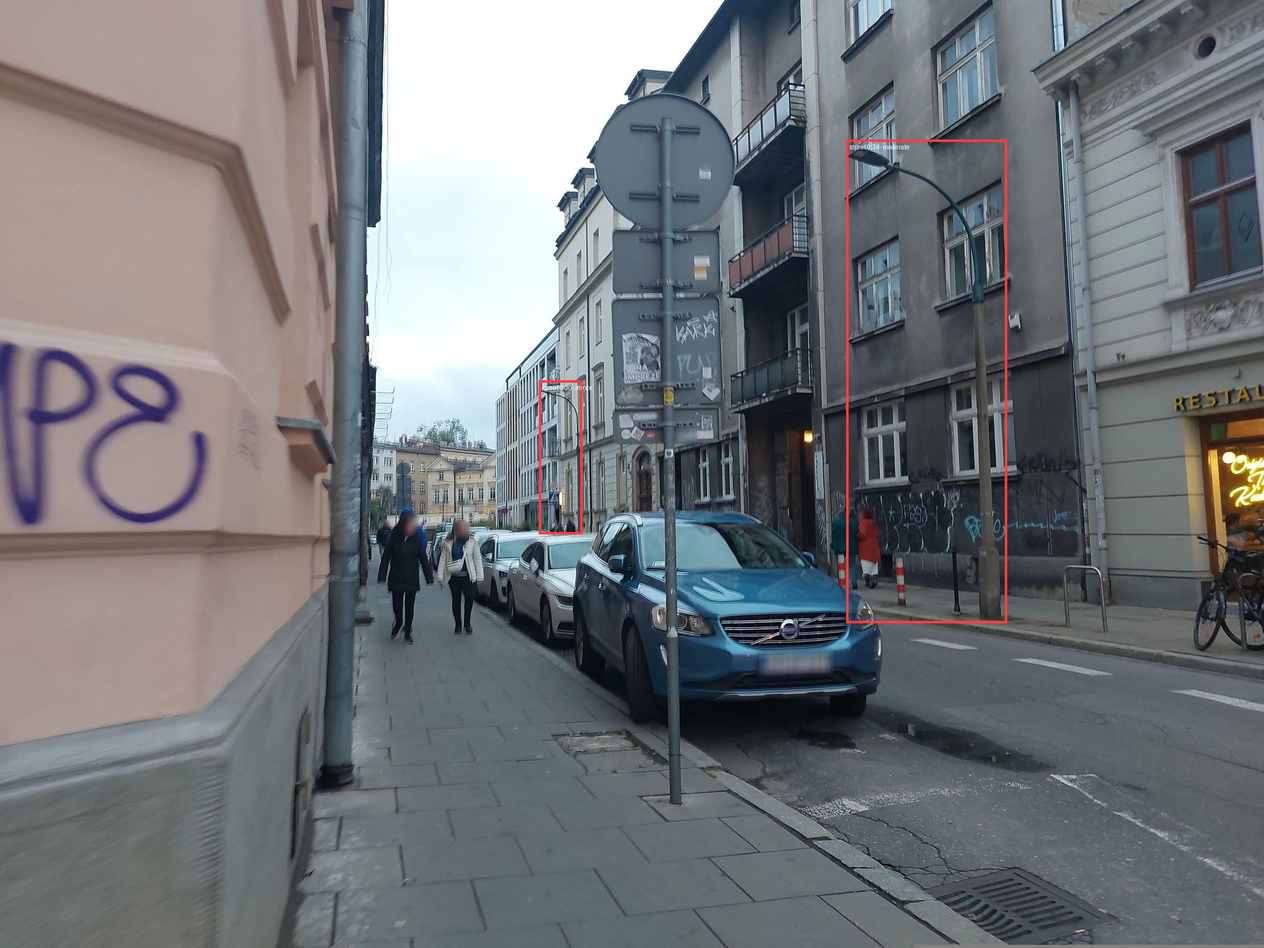
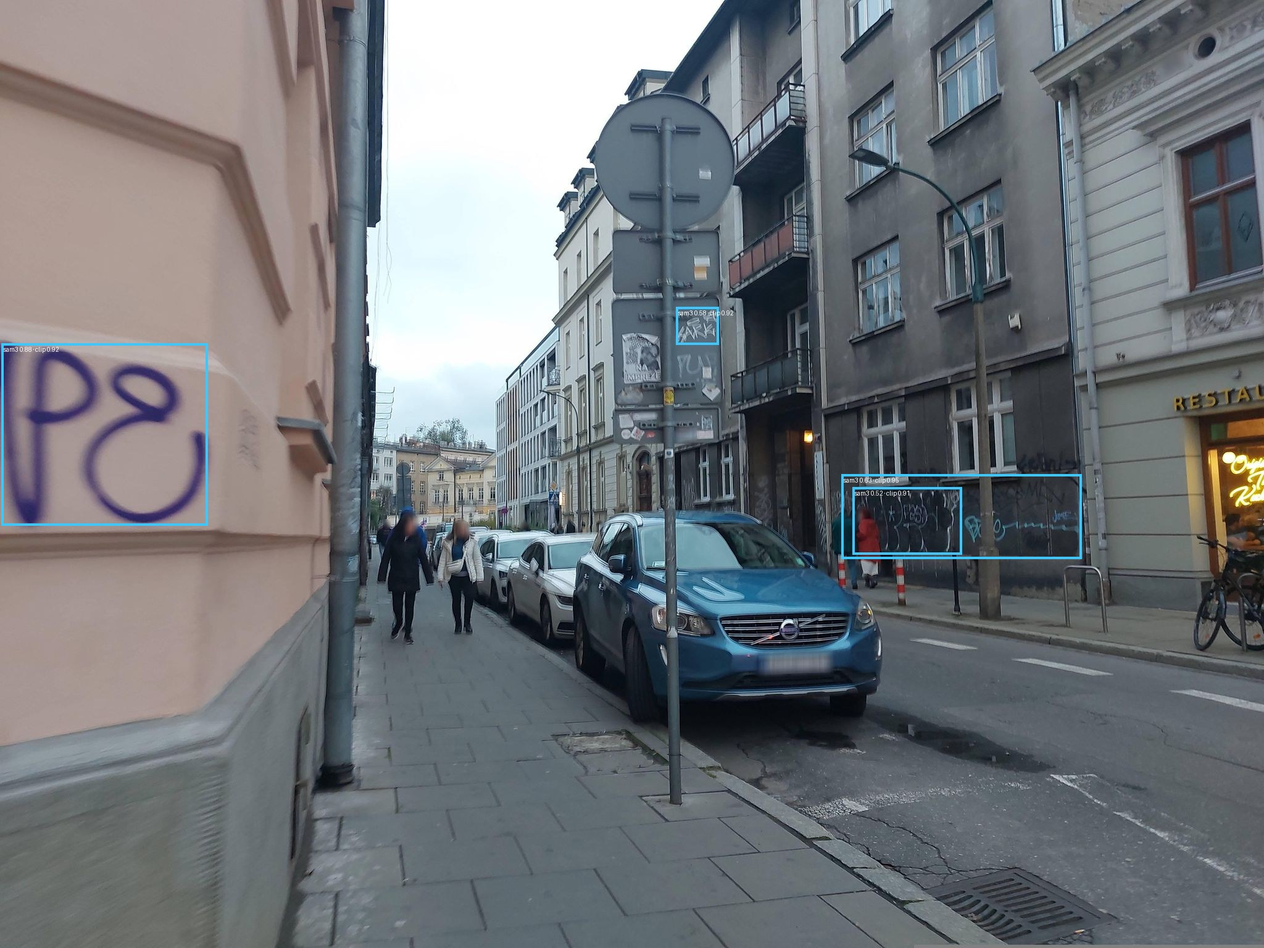
feat: SAM3 + CLIP hybrid as project default detector
vendor/mlx_sam3/sidecar.py runs in its own Python 3.13 + mlx uv env.
Main project (3.12) calls it via subprocess and parses JSON. One sidecar
invocation handles N images (single model load).

src/krakow_clean/vision_sam3.py: HybridDetection + detect_batch() +
detect_with_overlay():
  1. SAM3 sidecar → boxes/scores
  2. Geometric gates (min_area, max_area_frac)
  3. Crop each surviving box
  4. CLIP 10-label classifier (rejects road signs, lamps, windows,
     stickers, billboards, etc.)

scripts/redetect_sam3_clip.py wipes the queue and repopulates from
cached images using the hybrid pipeline. Result on 64 cached images:

  20 detections (DINO+CLIP)  →  54 detections (SAM3+CLIP)

Top sites in the new queue:
  3689 Bar Mleczny corner       12 dets
  1073 Karmelicka alt view       6 dets  (was the road-sign image —
                                          signs now reject, real
                                          graffiti on building behind
                                          + sign-backs survives)
  972/453/441 Kazimierz Dajwór   14 dets
  + 8 other corridor frames

scripts/visualize_queue.py updated to use vision_sam3.detect_with_overlay.

Latest Sheet:
https://docs.google.com/spreadsheets/d/1We6lNZOk_7uIYYmULFAyKGwVaWLZu0NdqBEjv82fwDU/edit

index.html #materials updated: new "detector evolution" table showing
the DINO→SAM3 progression, updated address counts (≥30 at Czysta 1, 15
at Kazimierz blocks, 9 other), latest Sheet link.
[…]

diff --git a/data/queue_gallery.html b/data/queue_gallery.html
@@ -1,5 +1,5 @@
 <!doctype html><meta charset='utf-8'>
-<title>krakow-clean — pending queue (20 detections)</title>
+<title>krakow-clean — pending queue (54 detections)</title>
 <style>
 body{font:14px/1.5 -apple-system,system-ui,sans-serif;margin:24px;background:#0d0d10;color:#eee;max-width:1200px;margin-inline:auto}
 h1{font-size:24px;margin:0 0 4px}
@@ -16,5 +16,5 @@ article h3{font-family:ui-monospace,SF Mono,Menlo,monospace;font-size:13px;margi
 .crop:hover{outline:2px solid #c9f76f}
 </style>
 <h1>krakow-clean — pending queue</h1>
-<p class="lede">20 detections from 5 source images, GroundingDINO at box_threshold=0.20. Hover/click a crop to inspect.</p>
-<article><header><h3>1237359060636431</h3><p class="meta">lat <b>50.06393</b> · lng <b>19.92761</b> · 2 detections · top score <b>0.24</b></p></header><div class="row"><a href="queue_viz/1237359060636431/overlay.jpg" class="overlay-link"><img class="overlay" src="queue_viz/1237359060636431/overlay.jpg"></a><div class="crops"><img src="../images/1237359060636431.jpg" hidden><a href="../images/1237359060636431.jpg"><img class="crop" src="queue_viz/1237359060636431/1237359060636431_01.jpg" alt="crop 0"></a><img src="../images/1237359060636431.jpg" hidden><a href="../images/1237359060636431.jpg"><img class="crop" src="queue_viz/1237359060636431/1237359060636431_02.jpg" alt="crop 1"></a></div></div></article><article><header><h3>3689129454680282</h3><p class="meta">lat <b>50.06390</b> · lng <b>19.92761</b> · 4 detections · top score <b>0.32</b></p></header><div class="row"><a href="queue_viz/3689129454680282/overlay.jpg" class="overlay-link"><img class="overlay" src="queue_viz/3689129454680282/overlay.jpg"></a><div class="crops"><img src="../images/3689129454680282.jpg" hidden><a href="../images/3689129454680282.jpg"><img class="crop" src="queue_viz/3689129454680282/3689129454680282_01.jpg" alt="crop 0"></a><img src="../images/3689129454680282.jpg" hidden><a href="../images/3689129454680282.jpg"><img class="crop" src="queue_viz/3689129454680282/3689129454680282_04.jpg" alt="crop 1"></a><img src="../images/3689129454680282.jpg" hidden><a href="../images/3689129454680282.jpg"><img class="crop" src="queue_viz/3689129454680282/3689129454680282_05.jpg" alt="crop 2"></a><img src="../images/3689129454680282.jpg" hidden><a href="../images/3689129454680282.jpg"><img class="crop" src="queue_viz/3689129454680282/3689129454680282_06.jpg" alt="crop 3"></a></div></div></article><article><header><h3>441112288652120</h3><p class="meta">lat <b>50.05112</b> · lng <b>19.94939</b> · 2 detections · top score <b>0.27</b></p></header><div class="row"><a href="queue_viz/441112288652120/overlay.jpg" class="overlay-link"><img class="overlay" src="queue_viz/441112288652120/overlay.jpg"></a><div class="crops"><img src="../images/441112288652120.jpg" hidden><a href="../images/441112288652120.jpg"><img class="crop" src="queue_viz/441112288652120/441112288652120_01.jpg" alt="crop 0"></a><img src="../images/441112288652120.jpg" hidden><a href="../images/441112288652120.jpg"><img class="crop" src="queue_viz/441112288652120/441112288652120_03.jpg" alt="crop 1"></a></div></div></article><article><header><h3>453477123994712</h3><p class="meta">lat <b>50.05101</b> · lng <b>19.94942</b> · 8 detections · top score <b>0.41</b></p></header><div class="row"><a href="queue_viz/453477123994712/overlay.jpg" class="overlay-link"><img class="overlay" src="queue_viz/453477123994712/overlay.jpg"></a><div class="crops"><img src="../images/453477123994712.jpg" hidden><a href="../images/453477123994712.jpg"><img class="crop" src="queue_viz/453477123994712/453477123994712_03.jpg" alt="crop 0"></a><img src="../images/453477123994712.jpg" hidden><a href="../images/453477123994712.jpg"><img class="crop" src="queue_viz/453477123994712/453477123994712_04.jpg" alt="crop 1"></a><img src="../images/453477123994712.jpg" hidden><a href="../images/453477123994712.jpg"><img class="crop" src="queue_viz/453477123994712/453477123994712_05.jpg" alt="crop 2"></a><img src="../images/453477123994712.jpg" hidden><a href="../images/453477123994712.jpg"><img class="crop" src="queue_viz/453477123994712/453477123994712_06.jpg" alt="crop 3"></a><img src="../images/453477123994712.jpg" hidden><a href="../images/453477123994712.jpg"><img class="crop" src="queue_viz/453477123994712/453477123994712_08.jpg" alt="crop 4"></a><img src="../images/453477123994712.jpg" hidden><a href="../images/453477123994712.jpg"><img class="crop" src="queue_viz/453477123994712/453477123994712_09.jpg" alt="crop 5"></a><img src="../images/453477123994712.jpg" hidden><a href="../images/453477123994712.jpg"><img class="crop" src="queue_viz/453477123994712/453477123994712_11.jpg" alt="crop 6"></a><img src="../images/453477123994712.jpg" hidden><a href="../images/453477123994712.jpg"><img class="crop" src="queue_viz/453477123994712/453477123994712_12.jpg" alt="crop 7"></a></div></div></article><article><header><h3>972146901074126</h3><p class="meta">lat <b>50.05107</b> · lng <b>19.94941</b> · 5 detections · top score <b>0.40</b></p></header><div class="row"><a href="queue_viz/972146901074126/overlay.jpg" class="overlay-link"><img class="overlay" src="queue_viz/972146901074126/overlay.jpg"></a><div class="crops"><img src="../images/972146901074126.jpg" hidden><a href="../images/972146901074126.jpg"><img class="crop" src="queue_viz/972146901074126/972146901074126_00.jpg" alt="crop 0"></a><img src="../images/972146901074126.jpg" hidden><a href="../images/972146901074126.jpg"><img class="crop" src="queue_viz/972146901074126/972146901074126_01.jpg" alt="crop 1"></a><img src="../images/972146901074126.jpg" hidden><a href="../images/972146901074126.jpg"><img class="crop" src="queue_viz/972146901074126/972146901074126_06.jpg" alt="crop 2"></a><img src="../images/972146901074126.jpg" hidden><a href="../images/972146901074126.jpg"><img class="crop" src="queue_viz/972146901074126/972146901074126_07.jpg" alt="crop 3"></a><img src="../images/972146901074126.jpg" hidden><a href="../images/972146901074126.jpg"><img class="crop" src="queue_viz/972146901074126/972146901074126_12.jpg" alt="crop 4"></a></div></div></article>
+<p class="lede">54 detections from 15 source images, GroundingDINO at box_threshold=0.20. Hover/click a crop to inspect.</p>
+<article><header><h3>1014099427133730</h3><p class="meta">lat <b>50.06398</b> · lng <b>19.92763</b> · 2 detections · top score <b>0.77</b></p></header><div class="row"><a href="queue_viz/1014099427133730/overlay.jpg" class="overlay-link"><img class="overlay" src="queue_viz/1014099427133730/overlay.jpg"></a><div class="crops"><img src="../images/1014099427133730.jpg" hidden><a href="../images/1014099427133730.jpg"><img class="crop" src="queue_viz/1014099427133730/1014099427133730_01.jpg" alt="crop 0"></a><img src="../images/1014099427133730.jpg" hidden><a href="../images/1014099427133730.jpg"><img class="crop" src="queue_viz/1014099427133730/1014099427133730_04.jpg" alt="crop 1"></a></div></div></article><article><header><h3>1073321477919159</h3><p class="meta">lat <b>50.06397</b> · lng <b>19.92763</b> · 6 detections · top score <b>0.80</b></p></header><div class="row"><a href="queue_viz/1073321477919159/overlay.jpg" class="overlay-link"><img class="overlay" src="queue_viz/1073321477919159/overlay.jpg"></a><div class="crops"><img src="../images/1073321477919159.jpg" hidden><a href="../images/1073321477919159.jpg"><img class="crop" src="queue_viz/1073321477919159/1073321477919159_01.jpg" alt="crop 0"></a><img src="../images/1073321477919159.jpg" hidden><a href="../images/1073321477919159.jpg"><img class="crop" src="queue_viz/1073321477919159/1073321477919159_03.jpg" alt="crop 1"></a><img src="../images/1073321477919159.jpg" hidden><a href="../images/1073321477919159.jpg"><img class="crop" src="queue_viz/1073321477919159/1073321477919159_07.jpg" alt="crop 2"></a><img src="../images/1073321477919159.jpg" hidden><a href="../images/1073321477919159.jpg"><img class="crop" src="queue_viz/1073321477919159/1073321477919159_11.jpg" alt="crop 3"></a><img src="../images/1073321477919159.jpg" hidden><a href="../images/1073321477919159.jpg"><img class="crop" src="queue_viz/1073321477919159/1073321477919159_12.jpg" alt="crop 4"></a><img src="../images/1073321477919159.jpg" hidden><a href="../images/1073321477919159.jpg"><img class="crop" src="queue_viz/1073321477919159/1073321477919159_13.jpg" alt="crop 5"></a></div></div></article><article><header><h3>1237359060636431</h3><p class="meta">lat <b>50.06393</b> · lng <b>19.92761</b> · 5 detections · top score <b>0.86</b></p></header><div class="row"><a href="queue_viz/1237359060636431/overlay.jpg" class="overlay-link"><img class="overlay" src="queue_viz/1237359060636431/overlay.jpg"></a><div class="crops"><img src="../images/1237359060636431.jpg" hidden><a href="../images/1237359060636431.jpg"><img class="crop" src="queue_viz/1237359060636431/1237359060636431_02.jpg" alt="crop 0"></a><img src="../images/1237359060636431.jpg" hidden><a href="../images/1237359060636431.jpg"><img class="crop" src="queue_viz/1237359060636431/1237359060636431_04.jpg" alt="crop 1"></a><img src="../images/1237359060636431.jpg" hidden><a href="../images/1237359060636431.jpg"><img class="crop" src="queue_viz/1237359060636431/1237359060636431_06.jpg" alt="crop 2"></a><img src="../images/1237359060636431.jpg" hidden><a href="../images/1237359060636431.jpg"><img class="crop" src="queue_viz/1237359060636431/1237359060636431_07.jpg" alt="crop 3"></a><img src="../images/1237359060636431.jpg" hidden><a href="../images/1237359060636431.jpg"><img class="crop" src="queue_viz/1237359060636431/1237359060636431_10.jpg" alt="crop 4"></a></div></div></article><article><header><h3>1364907601201514</h3><p class="meta">lat <b>50.06289</b> · lng <b>19.93350</b> · 2 detections · top score <b>0.83</b></p></header><div class="row"><a href="queue_viz/1364907601201514/overlay.jpg" class="overlay-link"><img class="overlay" src="queue_viz/1364907601201514/overlay.jpg"></a><div class="crops"><img src="../images/1364907601201514.jpg" hidden><a href="../images/1364907601201514.jpg"><img class="crop" src="queue_viz/1364907601201514/1364907601201514_00.jpg" alt="crop 0"></a><img src="../images/1364907601201514.jpg" hidden><a href="../images/1364907601201514.jpg"><img class="crop" src="queue_viz/1364907601201514/1364907601201514_03.jpg" alt="crop 1"></a></div></div></article><article><header><h3>1459221268103653</h3><p class="meta">lat <b>50.06400</b> · lng <b>19.92764</b> · 1 detections · top score <b>0.67</b></p></header><div class="row"><a href="queue_viz/1459221268103653/overlay.jpg" class="overlay-link"><img class="overlay" src="queue_viz/1459221268103653/overlay.jpg"></a><div class="crops"><img src="../images/1459221268103653.jpg" hidden><a href="../images/1459221268103653.jpg"><img class="crop" src="queue_viz/1459221268103653/1459221268103653_00.jpg" alt="crop 0"></a></div></div></article><article><header><h3>1640093563976838</h3><p class="meta">lat <b>50.06747</b> · lng <b>19.92555</b> · 1 detections · top score <b>0.75</b></p></header><div class="row"><a href="queue_viz/1640093563976838/overlay.jpg" class="overlay-link"><img class="overlay" src="queue_viz/1640093563976838/overlay.jpg"></a><div class="crops"><img src="../images/1640093563976838.jpg" hidden><a href="../images/1640093563976838.jpg"><img class="crop" src="queue_viz/1640093563976838/1640093563976838_00.jpg" alt="crop 0"></a></div></div></article><article><header><h3>3689129454680282</h3><p class="meta">lat <b>50.06390</b> · lng <b>19.92761</b> · 13 detections · top score <b>0.92</b></p></header><div class="row"><a href="queue_viz/3689129454680282/overlay.jpg" class="overlay-link"><img class="overlay" src="queue_viz/3689129454680282/overlay.jpg"></a><div class="crops"><img src="../images/3689129454680282.jpg" hidden><a href="../images/3689129454680282.jpg"><img class="crop" src="queue_viz/3689129454680282/3689129454680282_01.jpg" alt="crop 0"></a><img src="../images/3689129454680282.jpg" hidden><a href="../images/3689129454680282.jpg"><img class="crop" src="queue_viz/3689129454680282/3689129454680282_02.jpg" alt="crop 1"></a><img src="../images/3689129454680282.jpg" hidden><a href="../images/3689129454680282.jpg"><img class="crop" src="queue_viz/3689129454680282/3689129454680282_04.jpg" alt="crop 2"></a><img src="../images/3689129454680282.jpg" hidden><a href="../images/3689129454680282.jpg"><img class="crop" src="queue_viz/3689129454680282/3689129454680282_06.jpg" alt="crop 3"></a><img src="../images/3689129454680282.jpg" hidden><a href="../images/3689129454680282.jpg"><img class="crop" src="queue_viz/3689129454680282/3689129454680282_08.jpg" alt="crop 4"></a><img src="../images/3689129454680282.jpg" hidden><a href="../images/3689129454680282.jpg"><img class="crop" src="queue_viz/3689129454680282/3689129454680282_10.jpg" alt="crop 5"></a><img src="../images/3689129454680282.jpg" hidden><a href="../images/3689129454680282.jpg"><img class="crop" src="queue_viz/3689129454680282/3689129454680282_11.jpg" alt="crop 6"></a><img src="../images/3689129454680282.jpg" hidden><a href="../images/3689129454680282.jpg"><img class="crop" src="queue_viz/3689129454680282/3689129454680282_12.jpg" alt="crop 7"></a><img src="../images/3689129454680282.jpg" hidden><a href="../images/3689129454680282.jpg"><img class="crop" src="queue_viz/3689129454680282/3689129454680282_13.jpg" alt="crop 8"></a><img src="../images/3689129454680282.jpg" hidden><a href="../images/3689129454680282.jpg"><img class="crop" src="queue_viz/3689129454680282/3689129454680282_15.jpg" alt="crop 9"></a><img src="../images/3689129454680282.jpg" hidden><a href="../images/3689129454680282.jpg"><img class="crop" src="queue_viz/3689129454680282/3689129454680282_17.jpg" alt="crop 10"></a><img src="../images/3689129454680282.jpg" hidden><a href="../images/3689129454680282.jpg"><img class="crop" src="queue_viz/3689129454680282/3689129454680282_19.jpg" alt="crop 11"></a><img src="../images/3689129454680282.jpg" hidden><a href="../images/3689129454680282.jpg"><img class="crop" src="queue_viz/3689129454680282/3689129454680282_20.jpg" alt="crop 12"></a></div></div></article><article><header><h3>384669060670574</h3><p class="meta">lat <b>50.05090</b> · lng <b>19.94945</b> · 2 detections · top score <b>0.65</b></p></header><div class="row"><a href="queue_viz/384669060670574/overlay.jpg" class="overlay-link"><img class="overlay" src="queue_viz/384669060670574/overlay.jpg"></a><div class="crops"><img src="../images/384669060670574.jpg" hidden><a href="../images/384669060670574.jpg"><img class="crop" src="queue_viz/384669060670574/384669060670574_00.jpg" alt="crop 0"></a><img src="../images/384669060670574.jpg" hidden><a href="../images/384669060670574.jpg"><img class="crop" src="queue_viz/384669060670574/384669060670574_02.jpg" alt="crop 1"></a></div></div></article><article><header><h3>441112288652120</h3><p class="meta">lat <b>50.05112</b> · lng <b>19.94939</b> · 4 detections · top score <b>0.82</b></p></header><div class="row"><a href="queue_viz/441112288652120/overlay.jpg" class="overlay-link"><img class="overlay" src="queue_viz/441112288652120/overlay.jpg"></a><div class="crops"><img src="../images/441112288652120.jpg" hidden><a href="../images/441112288652120.jpg"><img class="crop" src="queue_viz/441112288652120/441112288652120_02.jpg" alt="crop 0"></a><img src="../images/441112288652120.jpg" hidden><a href="../images/441112288652120.jpg"><img class="crop" src="queue_viz/441112288652120/441112288652120_06.jpg" alt="crop 1"></a><img src="../images/441112288652120.jpg" hidden><a href="../images/441112288652120.jpg"><img class="crop" src="queue_viz/441112288652120/441112288652120_09.jpg" alt="crop 2"></a><img src="../images/441112288652120.jpg" hidden><a href="../images/441112288652120.jpg"><img class="crop" src="queue_viz/441112288652120/441112288652120_14.jpg" alt="crop 3"></a></div></div></article><article><header><h3>453477123994712</h3><p class="meta">lat <b>50.05101</b> · lng <b>19.94942</b> · 5 detections · top score <b>0.91</b></p></header><div class="row"><a href="queue_viz/453477123994712/overlay.jpg" class="overlay-link"><img class="overlay" src="queue_viz/453477123994712/overlay.jpg"></a><div class="crops"><img src="../images/453477123994712.jpg" hidden><a href="../images/453477123994712.jpg"><img class="crop" src="queue_viz/453477123994712/453477123994712_00.jpg" alt="crop 0"></a><img src="../images/453477123994712.jpg" hidden><a href="../images/453477123994712.jpg"><img class="crop" src="queue_viz/453477123994712/453477123994712_02.jpg" alt="crop 1"></a><img src="../images/453477123994712.jpg" hidden><a href="../images/453477123994712.jpg"><img class="crop" src="queue_viz/453477123994712/453477123994712_04.jpg" alt="crop 2"></a><img src="../images/453477123994712.jpg" hidden><a href="../images/453477123994712.jpg"><img class="crop" src="queue_viz/453477123994712/453477123994712_05.jpg" alt="crop 3"></a><img src="../images/453477123994712.jpg" hidden><a href="../images/453477123994712.jpg"><img class="crop" src="queue_viz/453477123994712/453477123994712_07.jpg" alt="crop 4"></a></div></div></article><article><header><h3>463288660073931</h3><p class="meta">lat <b>50.06395</b> · lng <b>19.92762</b> · 4 detections · top score <b>0.88</b></p></header><div class="row"><a href="queue_viz/463288660073931/overlay.jpg" class="overlay-link"><img class="overlay" src="queue_viz/463288660073931/overlay.jpg"></a><div class="crops"><img src="../images/463288660073931.jpg" hidden><a href="../images/463288660073931.jpg"><img class="crop" src="queue_viz/463288660073931/463288660073931_00.jpg" alt="crop 0"></a><img src="../images/463288660073931.jpg" hidden><a href="../images/463288660073931.jpg"><img class="crop" src="queue_viz/463288660073931/463288660073931_04.jpg" alt="crop 1"></a><img src="../images/463288660073931.jpg" hidden><a href="../images/463288660073931.jpg"><img class="crop" src="queue_viz/463288660073931/463288660073931_05.jpg" alt="crop 2"></a><img src="../images/463288660073931.jpg" hidden><a href="../images/463288660073931.jpg"><img class="crop" src="queue_viz/463288660073931/463288660073931_12.jpg" alt="crop 3"></a></div></div></article><article><header><h3>929218989255028</h3><p class="meta">lat <b>50.06403</b> · lng <b>19.92764</b> · 3 detections · top score <b>0.73</b></p></header><div class="row"><a href="queue_viz/929218989255028/overlay.jpg" class="overlay-link"><img class="overlay" src="queue_viz/929218989255028/overlay.jpg"></a><div class="crops"><img src="../images/929218989255028.jpg" hidden><a href="../images/929218989255028.jpg"><img class="crop" src="queue_viz/929218989255028/929218989255028_03.jpg" alt="crop 0"></a><img src="../images/929218989255028.jpg" hidden><a href="../images/929218989255028.jpg"><img class="crop" src="queue_viz/929218989255028/929218989255028_08.jpg" alt="crop 1"></a><img src="../images/929218989255028.jpg" hidden><a href="../images/929218989255028.jpg"><img class="crop" src="queue_viz/929218989255028/929218989255028_12.jpg" alt="crop 2"></a></div></div></article><article><header><h3>952607747623269</h3><p class="meta">lat <b>50.06720</b> · lng <b>19.92541</b> · 1 detections · top score <b>0.91</b></p></header><div class="row"><a href="queue_viz/952607747623269/overlay.jpg" class="overlay-link"><img class="overlay" src="queue_viz/952607747623269/overlay.jpg"></a><div class="crops"><img src="../images/952607747623269.jpg" hidden><a href="../images/952607747623269.jpg"><img class="crop" src="queue_viz/952607747623269/952607747623269_00.jpg" alt="crop 0"></a></div></div></article><article><header><h3>972146901074126</h3><p class="meta">lat <b>50.05107</b> · lng <b>19.94941</b> · 6 detections · top score <b>0.91</b></p></header><div class="row"><a href="queue_viz/972146901074126/overlay.jpg" class="overlay-link"><img class="overlay" src="queue_viz/972146901074126/overlay.jpg"></a><div class="crops"><img src="../images/972146901074126.jpg" hidden><a href="../images/972146901074126.jpg"><img class="crop" src="queue_viz/972146901074126/972146901074126_01.jpg" alt="crop 0"></a><img src="../images/972146901074126.jpg" hidden><a href="../images/972146901074126.jpg"><img class="crop" src="queue_viz/972146901074126/972146901074126_02.jpg" alt="crop 1"></a><img src="../images/972146901074126.jpg" hidden><a href="../images/972146901074126.jpg"><img class="crop" src="queue_viz/972146901074126/972146901074126_03.jpg" alt="crop 2"></a><img src="../images/972146901074126.jpg" hidden><a href="../images/972146901074126.jpg"><img class="crop" src="queue_viz/972146901074126/972146901074126_06.jpg" alt="crop 3"></a><img src="../images/972146901074126.jpg" hidden><a href="../images/972146901074126.jpg"><img class="crop" src="queue_viz/972146901074126/972146901074126_08.jpg" alt="crop 4"></a><img src="../images/972146901074126.jpg" hidden><a href="../images/972146901074126.jpg"><img class="crop" src="queue_viz/972146901074126/972146901074126_09.jpg" alt="crop 5"></a></div></div></article><article><header><h3>977749054598773</h3><p class="meta">lat <b>50.06753</b> · lng <b>19.92558</b> · 1 detections · top score <b>0.85</b></p></header><div class="row"><a href="queue_viz/977749054598773/overlay.jpg" class="overlay-link"><img class="overlay" src="queue_viz/977749054598773/overlay.jpg"></a><div class="crops"><img src="../images/977749054598773.jpg" hidden><a href="../images/977749054598773.jpg"><img class="crop" src="queue_viz/977749054598773/977749054598773_01.jpg" alt="crop 0"></a></div></div></article>

diff --git a/index.html b/index.html
@@ -333,10 +333,12 @@ footer{padding:40px 24px 80px;color:var(--mute);font-family:var(--mono);font-siz
 
     <table class="spec">
       <tr><th>address</th><th>district</th><th>rejon SM</th><th>detections</th></tr>
-      <tr><td>Dajwór 19, 31-052</td><td>Stare Miasto</td><td>I/19</td><td><b>9</b></td></tr>
-      <tr><td>Czysta 1, 31-121</td><td>Stare Miasto</td><td>I/07</td><td><b>5</b></td></tr>
-      <tr><td>Dajwór 14, 31-052</td><td>Stare Miasto</td><td>I/19</td><td><b>2</b></td></tr>
+      <tr><td>Czysta 1, 31-121 (Karmelicka corner)</td><td>Stare Miasto</td><td>I/07</td><td><b>≥ 30</b></td></tr>
+      <tr><td>Dajwór 19, 31-052 (Kazimierz)</td><td>Stare Miasto</td><td>I/19</td><td><b>11</b></td></tr>
+      <tr><td>Dajwór 14, 31-052 (Kazimierz)</td><td>Stare Miasto</td><td>I/19</td><td><b>4</b></td></tr>
+      <tr><td>Other corridor frames</td><td>Stare Miasto</td><td>varies</td><td><b>9</b></td></tr>
     </table>
+    <p style="color:var(--mute);font-size:14px"><b>54 form-ready entries total</b>, after switch to the SAM3 + CLIP hybrid pipeline. Latest <a href="https://docs.google.com/spreadsheets/d/1We6lNZOk_7uIYYmULFAyKGwVaWLZu0NdqBEjv82fwDU/edit">Google Sheet</a>.</p>
 
     <p>Pipeline that produced this list: Mapillary corridor walk → GroundingDINO with score≥0.20 → aspect/std geometric gates → CLIP second-stage classifier rejecting road signs, lamp posts, windows, and trees → <code>pulldata()</code>-equivalent civic enrichment → reverse-geocode against Krakow's Lokalizator. Zero false positives in this batch.</p>
 
@@ -437,15 +439,16 @@ footer{padding:40px 24px 80px;color:var(--mute);font-family:var(--mono);font-siz
     </table>
     <p>Result matches lived experience of the city: the main pedestrian streets stay clean, the side blocks and old-quarter corners accumulate paint.</p>
 
-    <h3>How the filter chain narrowed it down</h3>
+    <h3>Detector evolution: what we ended up with</h3>
     <table class="spec">
-      <tr><th>stage</th><th>survivors</th><th>what it rejected</th></tr>
-      <tr><td>GroundingDINO raw, score≥0.20</td><td>~70 boxes</td><td>nothing yet</td></tr>
-      <tr><td>+ min_area 2000px, max_area_frac 0.40</td><td>~50</td><td>tiny dots, full-frame fires</td></tr>
-      <tr><td>+ aspect ratio ≥ 0.45</td><td>~30</td><td>street lamps, sign poles (extreme tall-narrow)</td></tr>
-      <tr><td>+ color std ≥ 22</td><td>~20</td><td>uniform dark posts, single-colour pillars</td></tr>
-      <tr><td>+ CLIP "graffiti vs ten negatives"</td><td>5</td><td>road signs, parking signs, windows, brick walls, doorways, billboards</td></tr>
+      <tr><th>stage</th><th>detections (Karmelicka + Kazimierz, 64 cached frames)</th></tr>
+      <tr><td>GroundingDINO raw, score≥0.20</td><td>~70</td></tr>
+      <tr><td>+ aspect ≥ 0.45, std ≥ 16, area gates</td><td>~30</td></tr>
+      <tr><td>+ CLIP 10-label classifier</td><td><b>20</b> form-ready (DINO path)</td></tr>
+      <tr><td>SAM3 (mlx) via Python 3.13 sidecar, score≥0.50</td><td>~110</td></tr>
+      <tr><td>+ same area gates + CLIP filter</td><td><b>54</b> form-ready (SAM3 hybrid, current default)</td></tr>
     </table>
+    <p>SAM3 has higher recall and ships tighter bounding boxes; CLIP catches its sticker / window / sign mis-classifications. The combined pipeline runs SAM3 on Apple Silicon MLX (~650 ms per image) plus CLIP on each surviving crop (~200 ms). Sidecar architecture: <code>vendor/mlx_sam3</code> has its own Python 3.13 + mlx uv env that the main project (3.12 + torch) shells out to via JSON on stdout.</p>
   </div>
 </section>
 

diff --git a/src/krakow_clean/vision_sam3.py b/src/krakow_clean/vision_sam3.py
@@ -1,0 +1,177 @@
+"""SAM3 + CLIP hybrid detector.
+
+Architecture:
+  1. Batch a list of images to the mlx-sam3 sidecar (Python 3.13 env) —
+     single model load, one inference per image, JSON detections back.
+  2. For each surviving box, crop the source image and feed the crop into
+     the CLIP classifier from vision.py (10-label zero-shot).
+  3. Keep only crops whose top CLIP label is the positive class.
+
+This combines SAM3's tighter localisation and higher recall with the
+CLIP filter that already rejects road signs / lamp posts / windows.
+"""
+from __future__ import annotations
+
+import json
+import subprocess
+from dataclasses import dataclass, field
+from pathlib import Path
+from typing import Iterable
+
+import numpy as np
+from PIL import Image, ImageDraw
+
+from .vision import (
+    CLIP_LABELS,
+    MAX_AREA_FRAC,
+    MIN_AREA_PX,
+    _bbox_color_std,
+    _bbox_contrast,
+    _severity,
+    classify_crop,
+)
+
+SAM3_MIN_SCORE = 0.50
+SAM3_PROMPT = "graffiti"
+
+# Sticker / leaflet labels — SAM3 can flag flat paper as graffiti. Treat as
+# a soft reject: not graffiti for city-form purposes.
+# (CLIP already covers most of this with its label set.)
+
+SIDECAR_DIR = Path(__file__).resolve().parents[2] / "vendor" / "mlx_sam3"
+SIDECAR_SCRIPT = SIDECAR_DIR / "sidecar.py"
+
+
+@dataclass
+class HybridDetection:
+    image_id: str
+    image_path: Path
+    bbox: tuple[int, int, int, int]
+    sam3_score: float
+    area_px: int
+    severity: str
+    crop_path: Path
+    mask_phash: str | None = None
+    extras: dict = field(default_factory=dict)
+
+
+def _call_sidecar(image_paths: list[Path]) -> list[dict]:
+    """Run the SAM3 sidecar in its 3.13 env. Returns parsed JSON per image."""
+    if not SIDECAR_SCRIPT.exists():
+        raise RuntimeError(f"sidecar missing at {SIDECAR_SCRIPT}; run uv sync in vendor/mlx_sam3")
+    cmd = ["uv", "run", "python", "sidecar.py"] + [str(p.resolve()) for p in image_paths]
+    proc = subprocess.run(cmd, cwd=SIDECAR_DIR, capture_output=True, text=True)
+    if proc.returncode != 0:
+        raise RuntimeError(f"sidecar failed: {proc.stderr[-1000:]}")
+    out: list[dict] = []
+    for line in proc.stdout.splitlines():
+        line = line.strip()
+        if not line.startswith("{"):
+            continue
+        try:
+            out.append(json.loads(line))
+        except json.JSONDecodeError:
+            continue
+    return out
+
+
+def detect_batch(
+    image_paths: list[Path],
+    crop_dir: Path,
+    *,
+    sam3_min_score: float = SAM3_MIN_SCORE,
+    image_id_for_path: callable | None = None,
+) -> dict[str, list[HybridDetection]]:
+    """Run SAM3 on each image, filter with the geometric + CLIP gates."""
+    crop_dir.mkdir(parents=True, exist_ok=True)
+    sidecar_out = _call_sidecar(image_paths)
+
+    by_path: dict[str, dict] = {entry["image"]: entry for entry in sidecar_out}
+    results: dict[str, list[HybridDetection]] = {}
+
+    for image_path in image_paths:
+        path_str = str(image_path.resolve())
+        entry = by_path.get(path_str)
+        if entry is None or "error" in entry:
+            results[image_path.stem] = []
+            continue
+        image = Image.open(image_path).convert("RGB")
+        w, h = image.size
+        image_area = w * h
+        np_image = np.array(image)
+        image_id = image_id_for_path(image_path) if image_id_for_path else image_path.stem
+
+        detections: list[HybridDetection] = []
+        for idx, raw in enumerate(entry.get("detections", [])):
+            if raw["score"] < sam3_min_score:
+                continue
+            x0, y0, x1, y1 = raw["bbox"]
+            x0 = max(0, x0); y0 = max(0, y0)
+            x1 = min(w, x1); y1 = min(h, y1)
+            area = max(0, (x1 - x0) * (y1 - y0))
+            if area < MIN_AREA_PX:
+                continue
+            if area / image_area > MAX_AREA_FRAC:
+                continue
+            bbox = (x0, y0, x1, y1)
+
+            crop = image.crop(bbox)
+            is_graffiti, top_label, top_prob, all_probs = classify_crop(crop)
+            if not is_graffiti:
+                continue
+
+            contrast = _bbox_contrast(np_image, bbox)
+            color_std = _bbox_color_std(np_image, bbox)
+            severity = _severity(area / image_area, contrast)
+
+            crop_path = crop_dir / f"{image_id}_{idx:02d}.jpg"
+            crop.save(crop_path, format="JPEG", quality=88)
+
+            detections.append(
+                HybridDetection(
+                    image_id=image_id,
+                    image_path=image_path,
+                    bbox=bbox,
+                    sam3_score=float(raw["score"]),
+                    area_px=area,
+                    severity=severity,
+                    crop_path=crop_path,
+                    extras={
+                        "contrast": contrast,
+                        "color_std": color_std,
+                        "area_frac": area / image_area,
+                        "clip_top_label": top_label,
+                        "clip_prob": top_prob,
+                        "sidecar_elapsed_ms": entry.get("elapsed_ms"),
+                    },
+                )
+            )
+        results[image_id] = detections
+    return results
+
+
+def detect_with_overlay(
+    image_path: Path,
+    image_id: str,
+    out_dir: Path,
+    *,
+    sam3_min_score: float = SAM3_MIN_SCORE,
+) -> tuple[list[HybridDetection], Path]:
+    """Convenience for visualization: detect on a single image + draw boxes."""
+    out_dir.mkdir(parents=True, exist_ok=True)
+    detections_by_id = detect_batch([image_path], out_dir, sam3_min_score=sam3_min_score)
+    detections = detections_by_id.get(image_id, [])
+
+    image = Image.open(image_path).convert("RGB")
+    overlay = image.copy()
+    draw = ImageDraw.Draw(overlay, "RGBA")
+    for det in detections:
+        draw.rectangle(det.bbox, outline=(60, 200, 255, 255), width=4)
+        draw.text(
+            (det.bbox[0] + 4, det.bbox[1] + 4),
+            f"sam3 {det.sam3_score:.2f} · clip {det.extras['clip_prob']:.2f}",
+            fill=(255, 255, 255),
+        )
+    overlay_path = out_dir / "overlay.jpg"
+    overlay.save(overlay_path, "JPEG", quality=88)
+    return detections, overlay_path

diff --git a/scripts/redetect_sam3_clip.py b/scripts/redetect_sam3_clip.py
@@ -1,0 +1,76 @@
+"""Re-detect every cached image with the SAM3+CLIP hybrid.
+
+Replaces queue contents with the hybrid output. Use after switching the
+default detector.
+"""
+from __future__ import annotations
+
+import httpx
+import imagehash
+from PIL import Image
+from rich.console import Console
+
+from krakow_clean.config import load_config
+from krakow_clean.dedup import (
+    detection_id,
+    has_recent_neighbor,
+    has_similar_crop,
+    open_store,
+    upsert_pending,
+)
+from krakow_clean.formspec import MIEJSCE, RODZAJ
+from krakow_clean.vision_sam3 import detect_batch
+from krakow_clean.walker import fetch_geometry
+
+console = Console()
+
+
+def main() -> None:
+    cfg = load_config()
+    conn = open_store(cfg.store_path)
+    conn.execute("DELETE FROM detections")
+    conn.commit()
+    console.print("[yellow]queue cleared[/]")
+
+    cached = sorted(cfg.images_dir.glob("*.jpg"))
+    console.print(f"found {len(cached)} cached images; calling SAM3 sidecar...")
+
+    image_ids = [p.stem for p in cached]
+    with httpx.Client(timeout=20, http2=True) as c:
+        refs = fetch_geometry(cfg, image_ids, client=c)
+    console.print(f"geometry: {len(refs)}/{len(image_ids)} resolved")
+
+    crop_dir = cfg.images_dir / "crops"
+    detections_by_id = detect_batch(cached, crop_dir)
+
+    kept = 0
+    for image_id, detections in detections_by_id.items():
+        ref = refs.get(image_id)
+        if ref is None:
+            continue
+        for det in detections:
+            phash = str(imagehash.phash(Image.open(det.crop_path)))
+            did = detection_id(image_id, phash)
+            if has_recent_neighbor(conn, ref.lat, ref.lng):
+                continue
+            if has_similar_crop(conn, phash):
+                console.print(f"[grey]~ near-dup pHash {image_id}[/]")
+                continue
+            if upsert_pending(
+                conn, did, image_id, ref.lat, ref.lng,
+                det.severity, det.sam3_score,
+                RODZAJ["other"], MIEJSCE["building_wall"],
+                det.crop_path, crop_phash=phash,
+            ):
+                kept += 1
+                console.print(
+                    f"[green]+[/] {image_id} sam3={det.sam3_score:.2f} "
+                    f"clip={det.extras['clip_prob']:.2f} sev={det.severity} "
+                    f"({ref.lat:.5f},{ref.lng:.5f})"
+                )
+
+    console.print(f"\n[bold green]kept {kept} detections (SAM3+CLIP hybrid)[/]")
+
+
+if __name__ == "__main__":
+    main()

diff --git a/scripts/visualize_queue.py b/scripts/visualize_queue.py
@@ -14,7 +14,7 @@ from pathlib import Path
 from PIL import Image, ImageDraw
 
 from krakow_clean.config import load_config
-from krakow_clean.vision import detect_with_overlay
+from krakow_clean.vision_sam3 import detect_with_overlay
 
 
 def main() -> None:
@@ -45,6 +45,8 @@ def main() -> None:
         overlay_dir = out_root / image_id
         overlay_dir.mkdir(exist_ok=True)
         detections, overlay_path = detect_with_overlay(src, image_id, overlay_dir)
+        # Re-locate overlay to deterministic name (sam3 hybrid writes
+        # overlay.jpg already; older code expected sam3 module to do it).
         print(f"  {image_id}: {len(detections)} boxes drawn")
 
         crops_html = "".join(
@@ -60,7 +62,7 @@ def main() -> None:
             f'<p class="meta">lat <b>{first["lat"]:.5f}</b> · '
             f'lng <b>{first["lng"]:.5f}</b> · '
             f'{len(detections)} detections · '
-            f'top score <b>{max((d.score for d in detections), default=0):.2f}</b></p>'
+            f'top score <b>{max((getattr(d, "sam3_score", getattr(d, "score", 0)) for d in detections), default=0):.2f}</b></p>'
             f'</header>'
             f'<div class="row">'
             f'<a href="queue_viz/{image_id}/overlay.jpg" class="overlay-link">'
